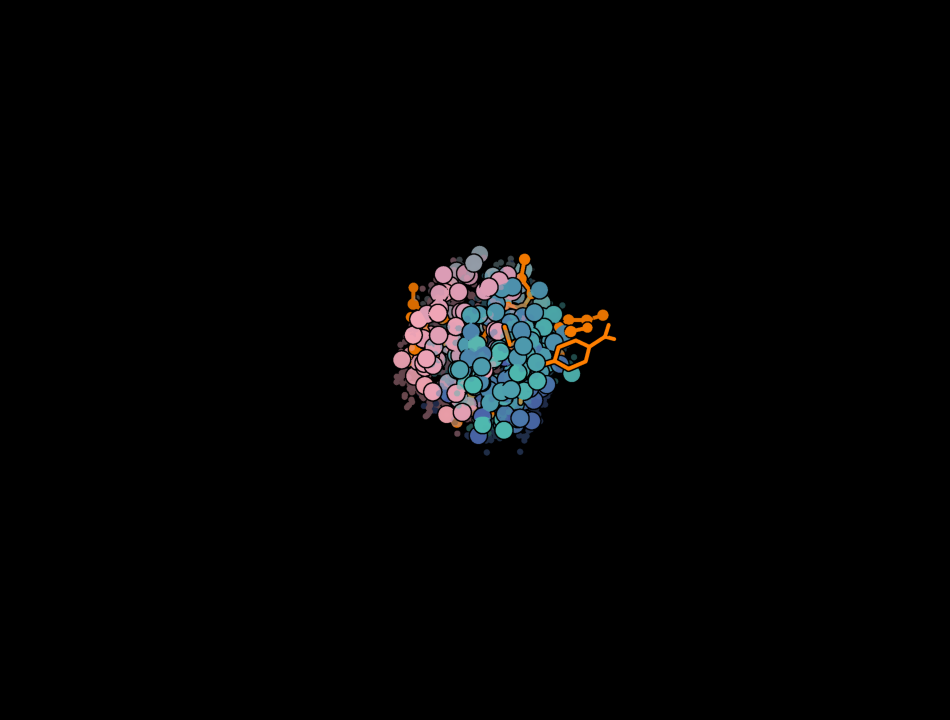
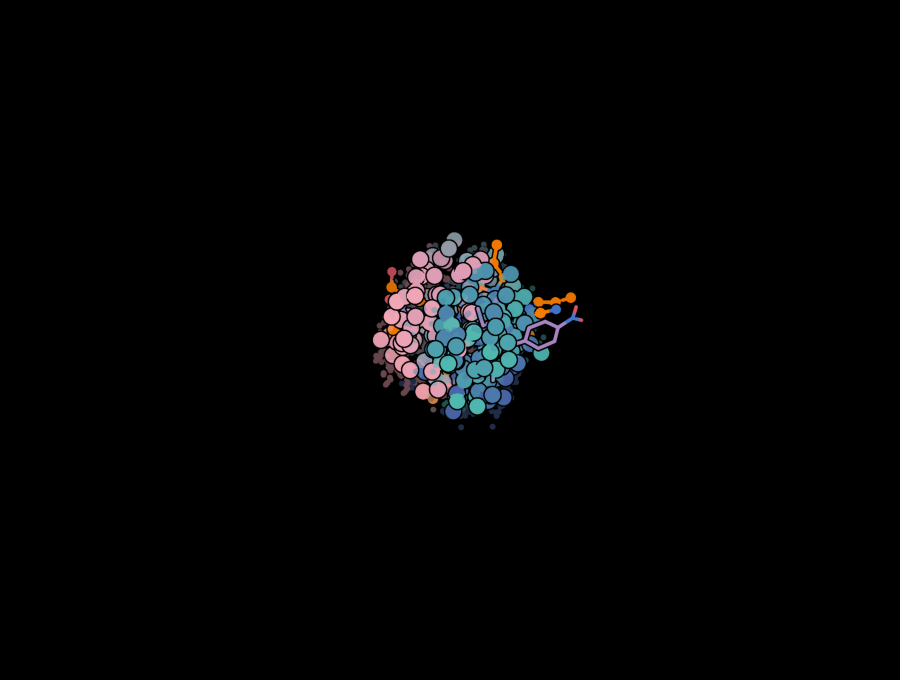
rfd3_movie: orange only on fixed-protein carbons (cofactor/elements normal), add reverse + fixed_sidechain options

Changed region(s): [[0.4044, 0.3706, 0.6533, 0.5868]]

diff --git a/README.md b/README.md
@@ -44,7 +44,7 @@ The bundled `show_termini.py` sits next to `.pymolrc` and loads automatically.
 | `color_bb_rfdiffusion3 [sel]` | RFdiffusion3 gradient (pink → purple → teal → dark blue), N→C |
 | `gaussian_mode [sel]` · `gaussian_off [sel]` | GaussView / QM look (glossy ball-and-stick, bond orders, perspective), and restore |
 | `gaussian_spin` `on\|off` | gentle continuous spin (GUI) |
-| `rfd3_movie <traj.cif.gz>` | RFdiffusion3 diffusion movie from one trajectory: diffusing protein as CA spheres + V-cloud in the RFd3 gradient; fixed motif/cofactor/Zn auto-detected, held static, highlighted (orange by default, `fixed_color=`); cross-checks the design JSON (`fixed_json=` or auto-derived) if present; then `mplay` |
+| `rfd3_movie <traj.cif.gz>` | RFdiffusion3 diffusion movie from one trajectory: diffusing protein as CA spheres + V-cloud in the RFd3 gradient; fixed motif/cofactor auto-detected, held static (cofactor in your ligand style; `fixed_color` orange on fixed-protein carbons only); options `reverse=1`, `fixed_sidechain=1`, JSON cross-check (`fixed_json=`/auto); then `mplay` |
 
 The `color_bb_*` commands default to `chain A` and recolor carbons only (non-carbon atoms
 left alone); pass `all_atom=1` to recolor every atom, or `backbone_only=1` to keep